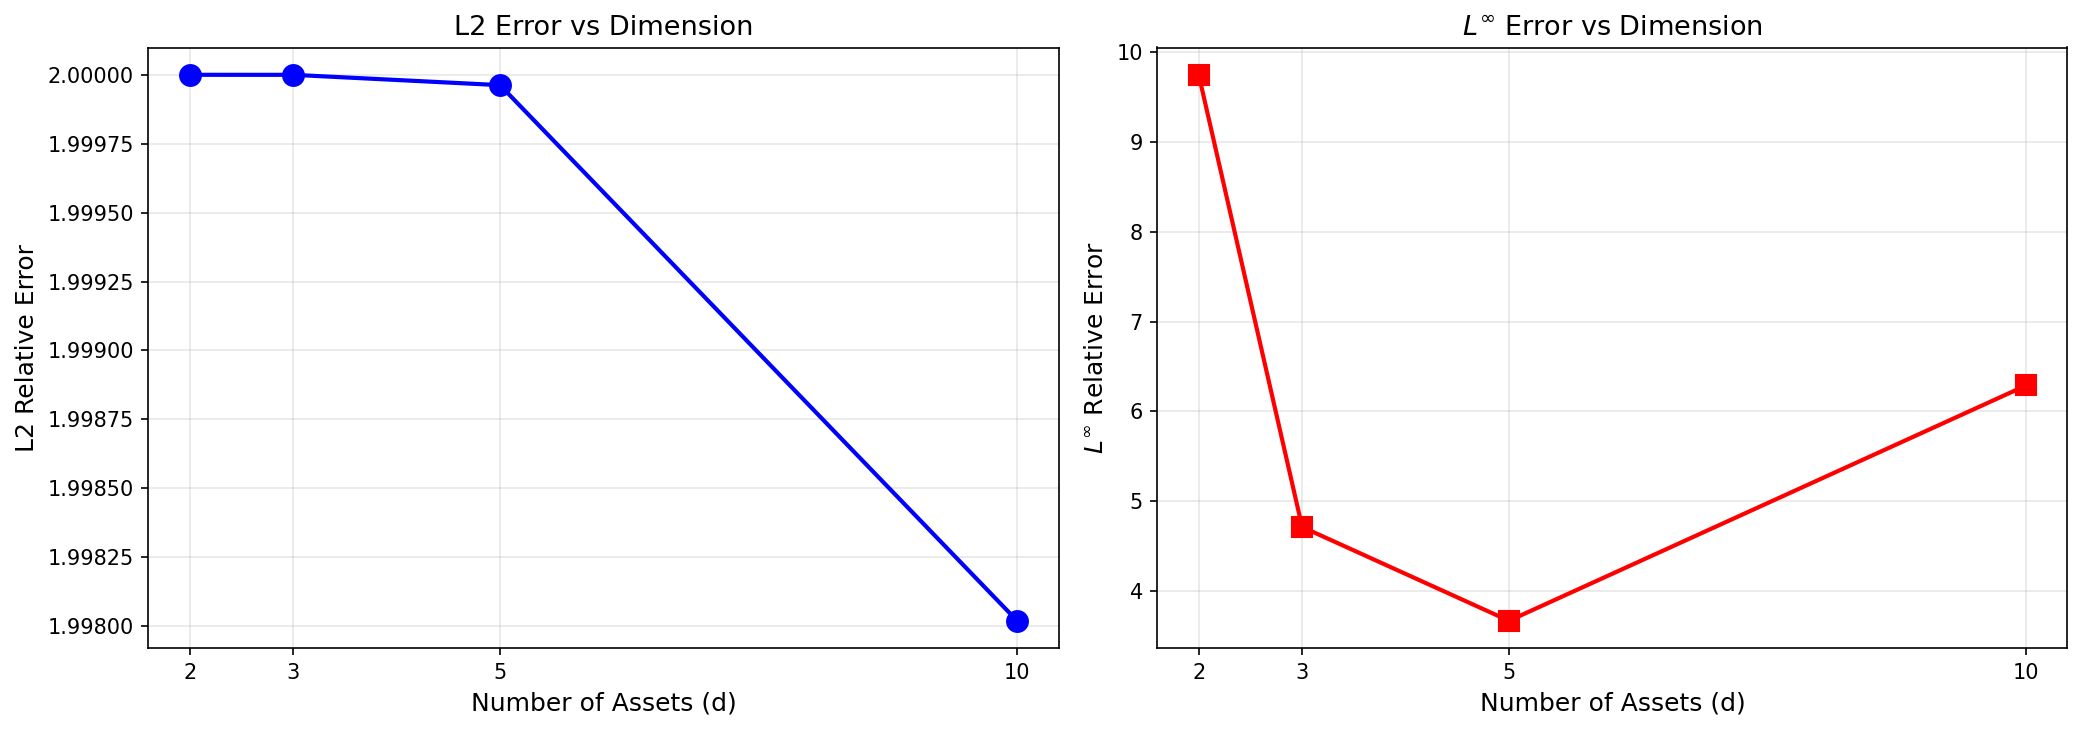
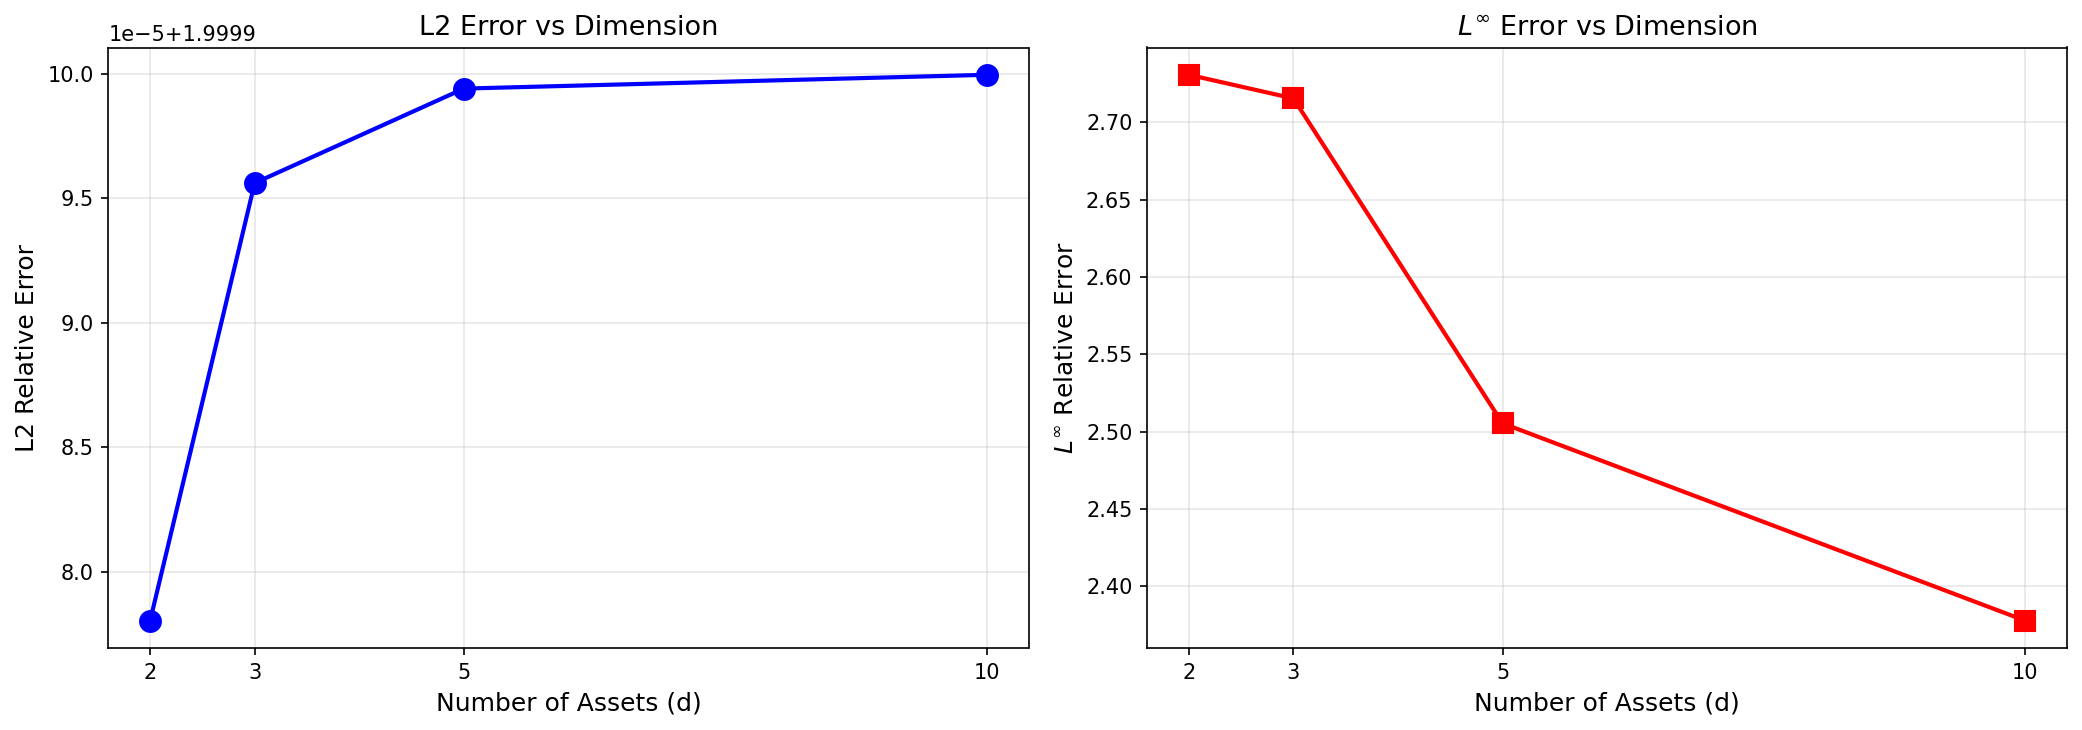
Updated Results

diff --git a/Comparison_Between_Methods/results/tables/exp5_parameter_sensitivity.md b/Comparison_Between_Methods/results/tables/exp5_parameter_sensitivity.md
@@ -4,39 +4,39 @@
 
 | Value | L2 Error | L∞ Error | MLMC Time (s) | Laplace Time (s) |
 |-------|----------|----------|---------------|------------------|
-| 0.05 | 2.0000 | 7.4648 | 0.37 | 0.39 |
-| 0.10 | 2.0000 | 5.6979 | 0.37 | 0.42 |
-| 0.15 | 2.0000 | 7.3755 | 0.37 | 0.37 |
-| 0.20 | 2.0000 | 5.0990 | 0.35 | 0.35 |
-| 0.25 | 2.0000 | 6.2758 | 0.37 | 0.37 |
-| 0.30 | 2.0000 | 6.8701 | 0.37 | 0.35 |
-| 0.40 | 2.0000 | 4.6797 | 0.36 | 0.35 |
-| 0.50 | 2.0000 | 6.0138 | 0.36 | 0.37 |
+| 0.05 | 2.0000 | 2.7046 | 0.42 | 0.38 |
+| 0.10 | 2.0000 | 2.7050 | 0.42 | 0.36 |
+| 0.15 | 2.0000 | 2.7064 | 0.42 | 0.35 |
+| 0.20 | 2.0000 | 2.7062 | 0.41 | 0.35 |
+| 0.25 | 2.0000 | 2.7080 | 0.41 | 0.35 |
+| 0.30 | 2.0000 | 2.7074 | 0.42 | 0.36 |
+| 0.40 | 2.0000 | 2.7153 | 0.42 | 0.34 |
+| 0.50 | 2.0000 | 2.7144 | 0.41 | 0.36 |
 
 ## Correlation ($\rho$)
 
 | Value | L2 Error | L∞ Error | MLMC Time (s) | Laplace Time (s) |
 |-------|----------|----------|---------------|------------------|
-| -0.50 | 2.0000 | 4.8698 | 0.36 | 0.46 |
-| -0.25 | 2.0000 | 4.7321 | 0.36 | 0.40 |
-| 0.00 | 2.0000 | 7.4435 | 0.36 | 0.39 |
-| 0.25 | 2.0000 | 6.2581 | 0.36 | 0.38 |
-| 0.50 | 2.0000 | 9.4354 | 0.35 | 0.37 |
-| 0.70 | 2.0000 | 4.9768 | 0.36 | 0.39 |
-| 0.80 | 2.0000 | 4.6979 | 0.36 | 0.39 |
-| 0.90 | 2.0000 | 6.3151 | 0.37 | 0.38 |
+| -0.50 | 2.0000 | 3.1469 | 0.41 | 0.47 |
+| -0.25 | 2.0000 | 2.8487 | 0.41 | 0.42 |
+| 0.00 | 2.0000 | 2.7709 | 0.42 | 0.40 |
+| 0.25 | 2.0000 | 2.7423 | 0.41 | 0.41 |
+| 0.50 | 2.0000 | 2.7284 | 0.41 | 0.39 |
+| 0.70 | 2.0000 | 2.7223 | 0.41 | 0.37 |
+| 0.80 | 2.0000 | 2.7197 | 0.41 | 0.39 |
+| 0.90 | 2.0000 | 2.7179 | 0.41 | 0.38 |
 
 ## Interest Rate (r)
 
 | Value | L2 Error | L∞ Error | MLMC Time (s) | Laplace Time (s) |
 |-------|----------|----------|---------------|------------------|
-| 0.00 | 2.0000 | 5.4722 | 0.35 | 0.37 |
-| 0.02 | 2.0000 | 6.6372 | 0.36 | 0.38 |
-| 0.05 | 2.0000 | 9.4354 | 0.36 | 0.39 |
-| 0.08 | 2.0000 | 4.2729 | 0.37 | 0.37 |
-| 0.10 | 2.0000 | 7.2644 | 0.36 | 0.37 |
-| 0.12 | 2.0000 | 4.7742 | 0.37 | 0.40 |
-| 0.15 | 2.0000 | 4.0848 | 0.37 | 0.40 |
+| 0.00 | 2.0000 | 2.7281 | 0.41 | 0.40 |
+| 0.02 | 2.0000 | 2.7281 | 0.41 | 0.39 |
+| 0.05 | 2.0000 | 2.7284 | 0.41 | 0.40 |
+| 0.08 | 2.0000 | 2.7300 | 0.41 | 0.37 |
+| 0.10 | 2.0000 | 2.7322 | 0.40 | 0.38 |
+| 0.12 | 2.0000 | 2.7322 | 0.41 | 0.37 |
+| 0.15 | 2.0000 | 2.7337 | 0.41 | 0.37 |
 
 ## Maturity (T)
 
@@ -44,23 +44,23 @@
 |-------|----------|----------|---------------|------------------|
 | 0.10 | FAILED | - | - | - |
 | 0.25 | FAILED | - | - | - |
-| 0.50 | 2.0000 | 9.4354 | 0.36 | 0.37 |
+| 0.50 | 2.0000 | 2.7284 | 0.41 | 0.38 |
 | 0.75 | FAILED | - | - | - |
-| 1.00 | 2.0000 | 2.7302 | 0.94 | 0.38 |
-| 1.50 | 2.0000 | 2.7318 | 1.23 | 0.37 |
-| 2.00 | 2.0000 | 2.7335 | 1.51 | 0.36 |
+| 1.00 | 2.0000 | 2.7302 | 0.79 | 0.37 |
+| 1.50 | 2.0000 | 2.7318 | 1.20 | 0.36 |
+| 2.00 | 2.0000 | 2.7335 | 1.57 | 0.36 |
 
 ## Moneyness (K/S₀)
 
 | Value | L2 Error | L∞ Error | MLMC Time (s) | Laplace Time (s) |
 |-------|----------|----------|---------------|------------------|
-| 0.80 | 2.0000 | 9.4354 | 0.40 | 0.41 |
-| 0.90 | 2.0000 | 9.4354 | 0.35 | 0.38 |
-| 0.95 | 2.0000 | 9.4354 | 0.36 | 0.39 |
-| 1.00 | 2.0000 | 9.4354 | 0.37 | 0.39 |
-| 1.05 | 2.0000 | 9.4354 | 0.37 | 0.38 |
-| 1.10 | 2.0000 | 9.4354 | 0.37 | 0.36 |
-| 1.20 | 2.0000 | 9.4354 | 0.36 | 0.37 |
+| 0.80 | 2.0000 | 2.7284 | 0.40 | 0.37 |
+| 0.90 | 2.0000 | 2.7284 | 0.40 | 0.37 |
+| 0.95 | 2.0000 | 2.7284 | 0.40 | 0.38 |
+| 1.00 | 2.0000 | 2.7284 | 0.40 | 0.37 |
+| 1.05 | 2.0000 | 2.7284 | 0.41 | 0.38 |
+| 1.10 | 2.0000 | 2.7284 | 0.41 | 0.37 |
+| 1.20 | 2.0000 | 2.7284 | 0.41 | 0.37 |
 
 ## Key Observations
 

diff --git a/Comparison_Between_Methods/results/tables/exp4_option_prices.md b/Comparison_Between_Methods/results/tables/exp4_option_prices.md
@@ -12,16 +12,16 @@
 
 | S | MLMC Price | Laplace Price | Difference | Diff (%) |
 |---|------------|---------------|------------|----------|
-| 263.7 | 145.9246 | 36.3214 | 109.6032 | 301.76 |
-| 263.7 | 145.9246 | 36.3214 | 109.6032 | 301.76 |
+| 263.7 | 145.8561 | 36.3214 | 109.5347 | 301.57 |
+| 263.7 | 145.8561 | 36.3214 | 109.5347 | 301.57 |
 | 270.1 | 29.9112 | 29.9112 | 0.0000 | 0.00 |
-| 300.3 | 0.5274 | 7.4941 | 6.9666 | 92.96 |
-| 329.6 | 0.2461 | 1.1201 | 0.8740 | 78.03 |
-| 354.3 | 0.0088 | 0.0214 | 0.0127 | 59.01 |
-| 354.3 | 0.0088 | 0.0214 | 0.0127 | 59.01 |
+| 300.3 | 0.0000 | 7.4941 | 7.4941 | 100.00 |
+| 329.6 | 0.0000 | 1.1201 | 1.1201 | 100.00 |
+| 354.3 | 0.0000 | 0.0214 | 0.0214 | 100.00 |
+| 354.3 | 0.0000 | 0.0214 | 0.0214 | 100.00 |
 
 ## Statistics
 
-- Mean absolute difference: 2.9750
-- Max absolute difference: 109.6032
-- Mean percentage difference: 56.72%
+- Mean absolute difference: 3.1336
+- Max absolute difference: 109.5347
+- Mean percentage difference: 69.85%

diff --git a/Comparison_Between_Methods/results/tables/exp2_convergence_stats.md b/Comparison_Between_Methods/results/tables/exp2_convergence_stats.md
@@ -5,24 +5,24 @@
 | Statistic | Value |
 |-----------|-------|
 | Number of runs | 20 |
-| Mean L2 error (individual) | 1961418.121732 |
-| Std L2 error | 1540636.872420 |
-| Final running avg L2 | 1202966.749690 |
-| Mean time per run | 0.38 s |
-| Total computation time | 7.5 s |
+| Mean L2 error (individual) | 0.999999 |
+| Std L2 error | 0.000000 |
+| Final running avg L2 | 0.999999 |
+| Mean time per run | 0.42 s |
+| Total computation time | 8.4 s |
 
 ## Running Average L2 Errors
 
 | n | L2 Error |
 |---|----------|
-| 1 | 5461345.437934 |
-| 2 | 2990449.177897 |
-| 3 | 3255012.970271 |
-| 4 | 2441272.390069 |
-| 5 | 2192211.984971 |
-| 6 | 1882738.124538 |
-| 11 | 1476137.770680 |
-| 16 | 1371087.735980 |
-| 18 | 1233780.887626 |
-| 19 | 1193039.906786 |
-| 20 | 1202966.749690 |
+| 1 | 0.999999 |
+| 2 | 0.999999 |
+| 3 | 0.999999 |
+| 4 | 0.999999 |
+| 5 | 0.999999 |
+| 6 | 0.999999 |
+| 11 | 0.999999 |
+| 16 | 0.999999 |
+| 18 | 0.999999 |
+| 19 | 0.999999 |
+| 20 | 0.999999 |

diff --git a/Comparison_Between_Methods/results/tables/exp1_metrics.md b/Comparison_Between_Methods/results/tables/exp1_metrics.md
@@ -4,13 +4,13 @@
 
 | Metric | Value |
 |--------|-------|
-| L2 relative error | 2.000000 |
-| L∞ error | 28928282229.0558 |
-| Mean absolute difference | 9293167290.7792 |
+| L2 relative error | 1.999996 |
+| L∞ error | 2038.3295 |
+| Mean absolute difference | 1468.0073 |
 | Mean relative difference | 200.00% |
-| Bias (MLMC - Laplace) | 9293166853.8492 |
-| Pearson correlation | 0.6938 |
-| Valid grid fraction | 44.5% |
+| Bias (MLMC - Laplace) | -1468.0073 |
+| Pearson correlation | 0.9265 |
+| Valid grid fraction | 100.0% |
 
 ## Parameters
 

diff --git a/Comparison_Between_Methods/results/tables/exp3_dimension_scaling.md b/Comparison_Between_Methods/results/tables/exp3_dimension_scaling.md
@@ -4,10 +4,10 @@
 
 | d | MLMC Time (s) | Laplace Time (s) | L2 Error | L∞ Error |
 |---|---------------|------------------|----------|----------|
-| 2 | 0.36 | 0.59 | 2.0000 | 9.7503 |
-| 3 | 0.37 | 1.27 | 2.0000 | 4.7091 |
-| 5 | 0.41 | 2.82 | 2.0000 | 3.6638 |
-| 10 | 0.46 | 9.64 | 1.9980 | 6.2870 |
+| 2 | 0.40 | 0.59 | 2.0000 | 2.7308 |
+| 3 | 0.41 | 1.26 | 2.0000 | 2.7155 |
+| 5 | 0.46 | 2.95 | 2.0000 | 2.5053 |
+| 10 | 0.52 | 9.80 | 2.0000 | 2.3776 |
 
 ## Key Observations
 
